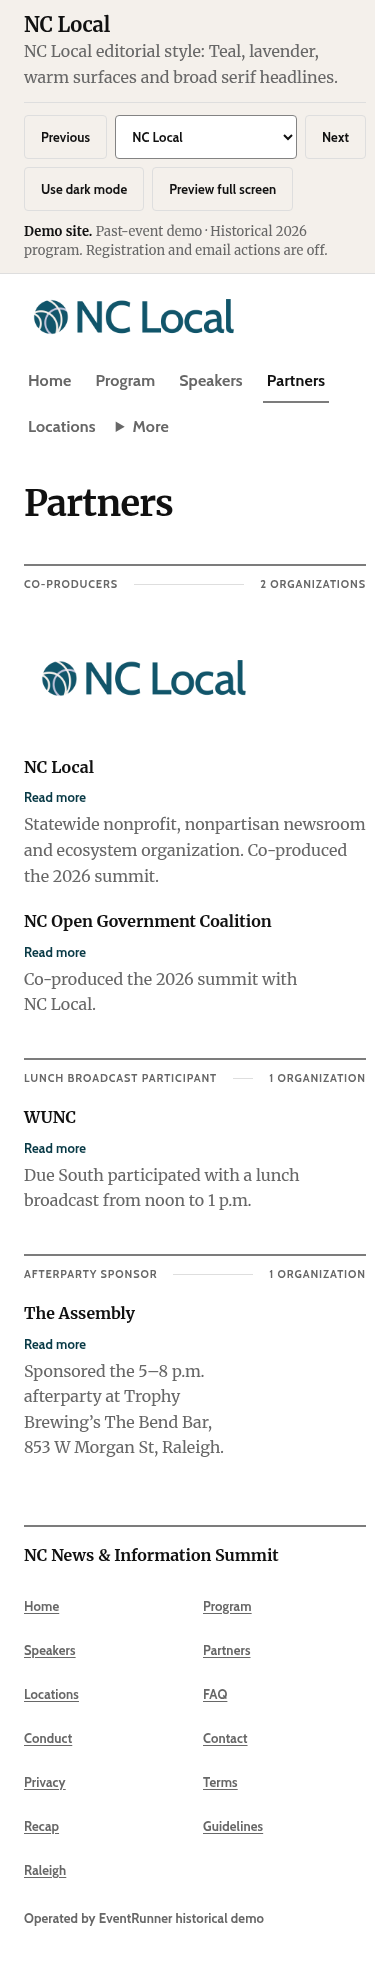
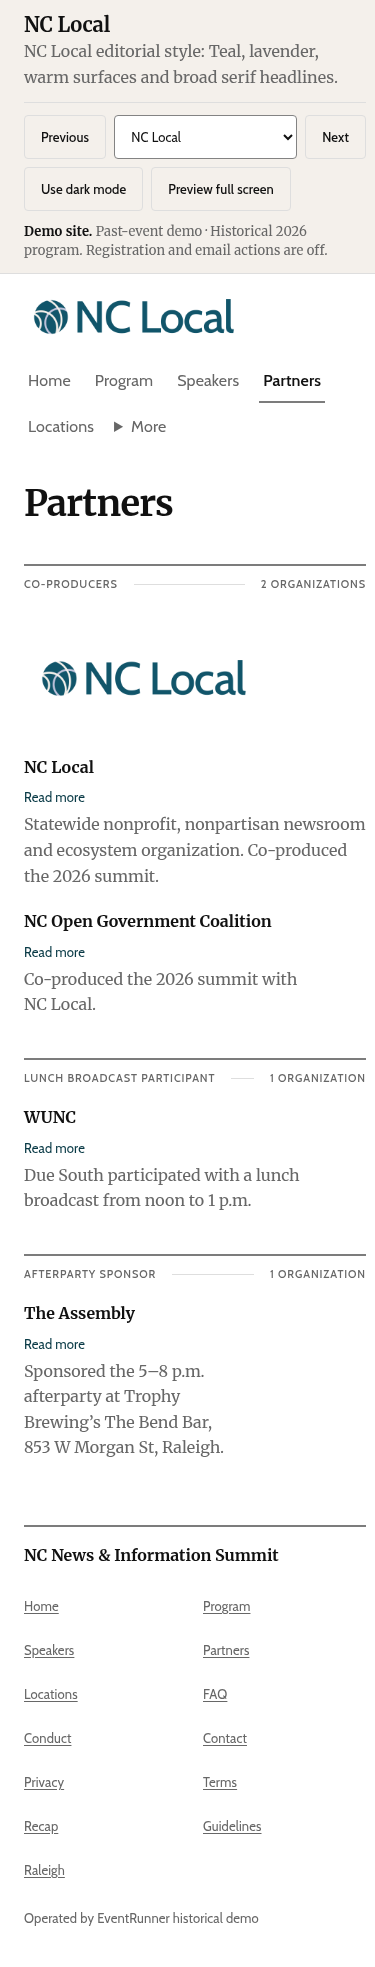
Refresh NC Local renders and field readbacks with Latin Cabin asset

diff --git a/docs/pr-evidence/nclocal/README.md b/docs/pr-evidence/nclocal/README.md
@@ -10,12 +10,17 @@ theme config and neutral branding stay at the base revision. This fixture
 overlay makes the visual comparison use the same sessions, people and prose.
 The source diff records the replacement of the previous fictional content.
 
-After: Source `4b73e3dd60d7b7336f30cf9a38f05141b7382709`, with the committed
+After: Source `cb576832868e6f2e0fd1b467e6f51bbc744c6c50`, with the committed
 historical content and NC Local theme. The after images use the fresh Node 22
 lockfile build from Legion, served by a loopback-only local preview. The before
 uses the isolated base development server. Both use `VITE_DEMO_MODE=1`.
 The browser retained Chromium's sandbox. Navigation used route URLs and
 semantic locators; screenshots did not supply click coordinates.
+
+This refresh uses the official Google Fonts Cabin normal Latin 400–700 slice:
+28,320 bytes, below the project's existing 60 KB font limit. Its asset source
+and digest are recorded in `field-evidence.json`. The full web suite at this
+source passed 3,025 tests across 260 files; this is separate from full CI.
 
 `render-evidence.json` records headings, fonts, viewport widths, transaction
 link checks and checks of the other five style selectors. Their source preset
@@ -42,6 +47,9 @@ the supplied historical values.
 ## Field states
 
 Program captures with `-filled` show actual typed `AI` search text in each mode.
+The `-placeholder` Program captures show the empty search control and its
+actual `Title, room, speaker…` placeholder. Its paired contrast is 5.66:1
+in light mode and 10.90:1 in dark mode, recorded from the rendered colors.
 The existing demo Specimen book supplies text input, select and textarea
 examples at rest, focused, in error and disabled. The `after-fields-*-filled-visible`
 captures contain the typed name and notes recorded in `field-evidence.json`.
@@ -55,6 +63,10 @@ earlier element crops were blank, were invalidated and removed, and do not count
 as visual evidence. The replacements were opened and inspected. This local probe does
 not submit or save data and does not add a form to the mock-up. Alpha backgrounds
 are composited over the recorded field surface for the contrast calculation.
+Disabled controls retain their opacity in the readback; their raw color ratio
+is not a claim about the composited disabled presentation. The focused Specimen
+variants illustrate focus styling; the typed Program search and active textarea
+also record native focus.
 These are NC Local demo checks; they do not close #316 acceptance.
 
 ## Derived dark logo

diff --git a/docs/demo/fonts/README.md b/docs/demo/fonts/README.md
@@ -41,7 +41,7 @@ declares.
 | `archivo-condensed-latin.woff2` | Archivo (width 75) | 400–700 var | `archivo-condensed` | 33 KB | SIL OFL 1.1 |
 | `merriweather-400-latin.woff2`, `merriweather-700-latin.woff2` | Merriweather | 400, 700 | `merriweather` | 47 KB + 46 KB | SIL OFL 1.1 |
 | `public-sans-latin.woff2` | Public Sans | 400–700 var | `public-sans` | 24 KB | SIL OFL 1.1 |
-| `cabin-latin.woff2` | Cabin | 400–700 var | `cabin` | 73 KB | SIL OFL 1.1; `OFL-cabin.txt` |
+| `cabin-latin.woff2` | Cabin | 400–700 var | `cabin` | 28 KB | SIL OFL 1.1; `OFL-cabin.txt` |
 | `karrik-latin.woff2` | Karrik | 400 | `karrik` | 16 KB | SIL OFL 1.1 |
 | `bagnard-latin.woff2` | Bagnard | 400 | `bagnard` | 7 KB | SIL OFL 1.1 |
 | `avara-latin.woff2` | Avara | 700 | `avara` | 6 KB | SIL OFL 1.1 |
@@ -71,6 +71,7 @@ OFL 1.1 text in their upstream Google Fonts repository.
 | Archivo | Omnibus-Type | Google Fonts |
 | Merriweather | Sorkin Type / Eben Sorkin | Google Fonts |
 | Public Sans | USWDS, after Libre Franklin | Google Fonts |
+| Cabin | The Cabin Project Authors | Google Fonts; `OFL-cabin.txt` |
 | Besley | Indestructible Type / Owen Earl | Google Fonts |
 | Vollkorn | Friedrich Althausen | Google Fonts |
 | Overpass, Overpass Mono | Delve Withrington, Dave Bailey, Thomas Jockin (Red Hat) | Google Fonts |
@@ -85,6 +86,10 @@ OFL 1.1 text in their upstream Google Fonts repository.
   fetched from the `fonts.googleapis.com/css2` stylesheet with a modern
   browser user agent, and taken from the block whose `unicode-range` is the
   Latin one. No re-subsetting was needed.
+- **Cabin.** The NC Local addition uses Google Fonts v35's normal Latin
+  slice for weights 400–700, with width fixed at 100%. Source:
+  <https://fonts.gstatic.com/s/cabin/v35/u-4i0qWljRw-PfU81xCKCpdpbgZJl6Xvqdns.woff2>.
+  It is 28,320 bytes, below the existing 60 KB limit.
 - **Weight range.** A variable face has its `wght` axis clipped to 400–700 with
   `fonttools varLib.instancer`, so the emitted `font-weight: 400 700` is the
   truth and the file carries no weights the system can reach. Any second axis
